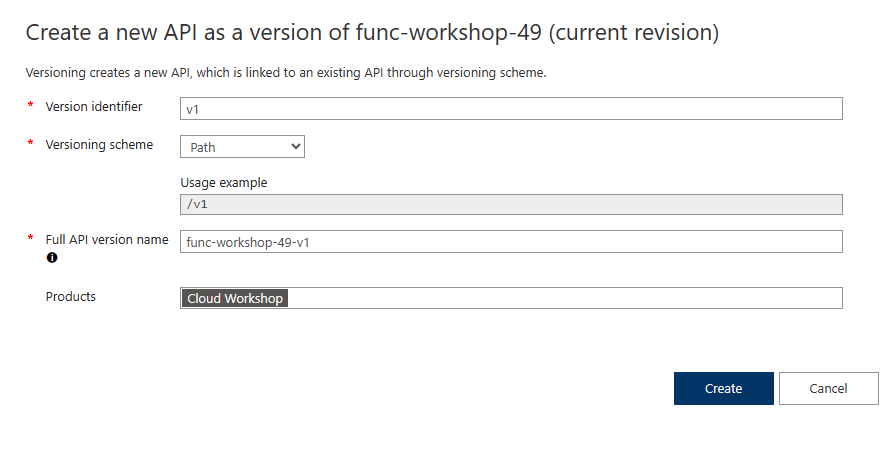
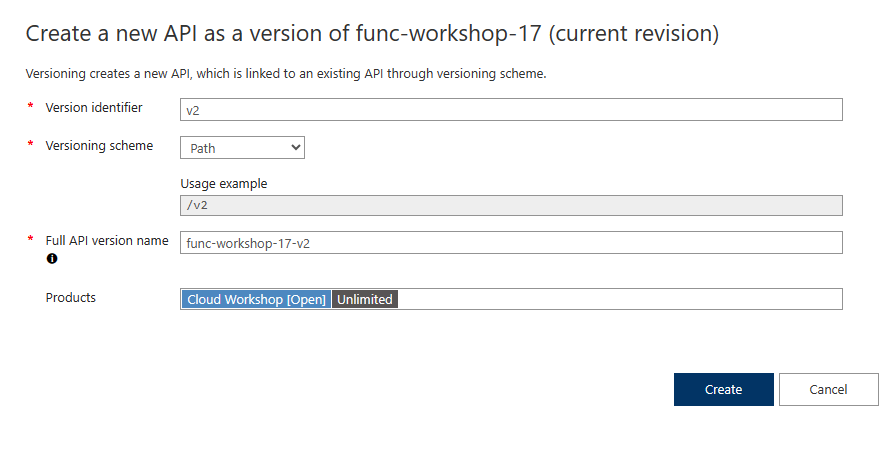
Update HOL guide

diff --git a/HOL-step-by-step-guide.md b/HOL-step-by-step-guide.md
@@ -943,15 +943,7 @@ Nov. 2023
 
 - **作成** をクリックし、シークレットを作成
 
-- 同様の手順でストレージ アカウントへの接続文字列を含むシークレットを生成
-
-  - **名前**: StorageAccountConnectionString
-
-  - **シークレット値**: ストレージ アカウントへの接続文字列
-
-    <img src="images/new-secret-03.png" />
-
-- ２つのシークレットが正常に作成されたことを確認
+- シークレットが正常に作成されたことを確認
 
   <img src="images/new-secret-04.png" />
 
@@ -1058,14 +1050,6 @@ Nov. 2023
   ※ {Key Vault 名} をシークレットを登録した Key Vault の名前に変更
 
   <img src="images/function-configuration-key-vault.png" />
-
-- 同様に **AzureWebJobsStorage**, **WEBSITE_CONTENTAZUREFILECONNECTIONSTRING** を Key Vault 参照へ変更
-
-  ```
-  @Microsoft.KeyVault(VaultName={Key Vault 名};SecretName=StorageAccountConnectionString)
-  ```
-
-  ※ {Key Vault 名} をシークレットを登録した Key Vault の名前に変更
 
 - **保存** をクリックし、変更を適用
 
@@ -1284,6 +1268,95 @@ Nov. 2023
 
 - **保存** をクリックして、診断設定を有効化
 
+- **API** を選択
+
+- 診断設定を行う API を選択し、**Settings** タブを選択し **Azure Monitor** を選択
+
+  <img src="images/apim-diag-03.png" />
+
+- Diagnostics Logs
+
+  - **Override global**: オン
+
+  - **Sampling (%)**: 100
+
+  - **Always log errors**: オン
+
+  - **Log client IP address**: オン
+
+  - **Verbosity**: Information
+
+  - **Additional settings**
+
+    - **Number of payload bytes**: 8192
+
+    <img src="images/apim-diag-04.png" />
+
+- **Save** をクリックし、設定を保存
+
 <br />
 
 ## Exercise 5: API のバージョン管理
+
+### Task 1: 新しいバージョンの追加と構成
+
+- Azure ポータルで API Management の管理ブレードへ移動、**API** を選択
+
+- API 名の右に表示される **・・・** を右クリックし、**Add version** をクリック
+
+  <img src="images/add-version-01.png" />
+
+- Create a new API as a version
+
+  - **Version identifier**: v2
+
+  - **Versioning scheme**: Path
+
+  - **Full API version name**: 関数アプリ名-v2
+
+  - **Products**: Cloud Workshop, Unlimited
+
+    <img src="images/add-version-02.png" />
+  
+- **Create** をクリックし、バージョンを追加
+
+- 追加したバージョン (v2) の関数名 (GetProduct) を選択、Outbound processing の **</>** をクリック
+
+  <img src="images/add-version-03.png" />
+
+- **outbound** に JSON から XML へ変換を行うポリシーを追加
+
+  ```
+          <json-to-xml apply="always" consider-accept-header="false" />
+  ```
+
+- **Save** をクリックして変更を保存
+
+  <img src="images/add-version-04.png" />
+
+<br />
+
+### Task 2: 関数アプリの実行
+
+- **概要** を選択、関数に表示される **ゲートウェイの URL** をコピー
+
+  <img src="images/api-test-04.png" />
+
+- Web ブラウザーを起動し、アドレス バーに関数アプリの展開時に出力された URL を貼り付け
+
+- /api/GetProduct?id=xx (xx は数字、5, 7, 10, 22, 27, 35 のいずれかを指定) を付与して実行
+
+  <img src="images/function-result-01.png" />
+
+  ※ JSON 形式でデータが返されることを確認
+
+- {ゲートウェイの URL}/api/v2/GetProduct?id=xx (xx は数字、5, 7, 10, 22, 27, 35 のいずれかを指定) を実行
+
+  <img src="images/function-result-08.png" />
+
+  ※ XML 形式でデータが返されることを確認
+
+  ※ レート制限が適用されているため１分以上間隔をあけて実行
+
+<br />
+
